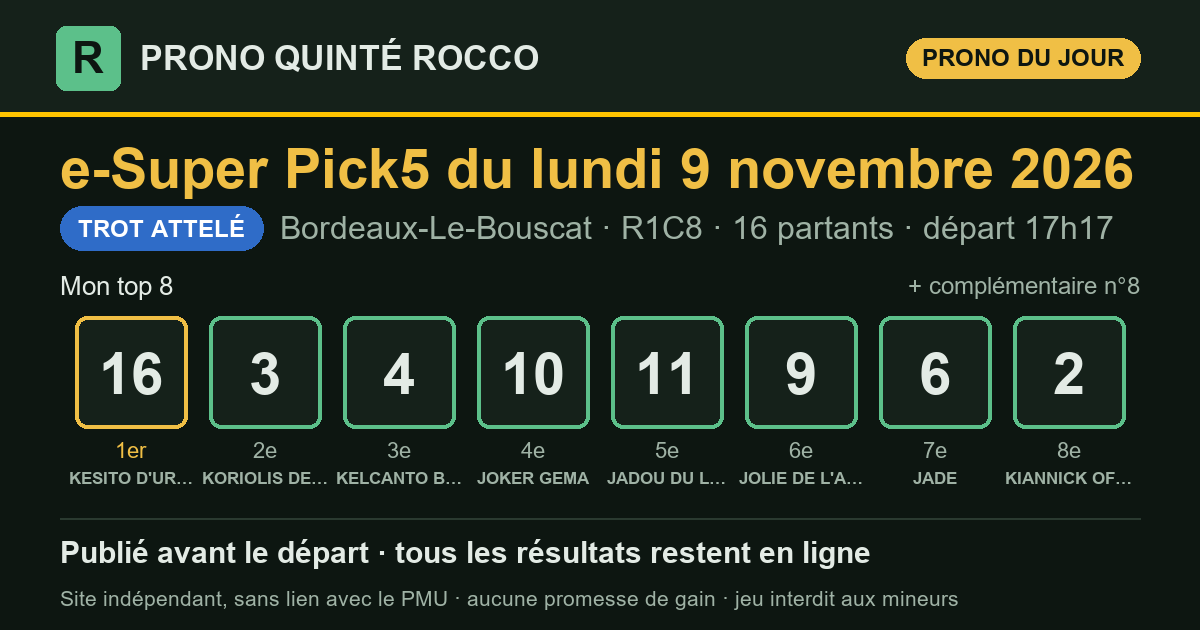
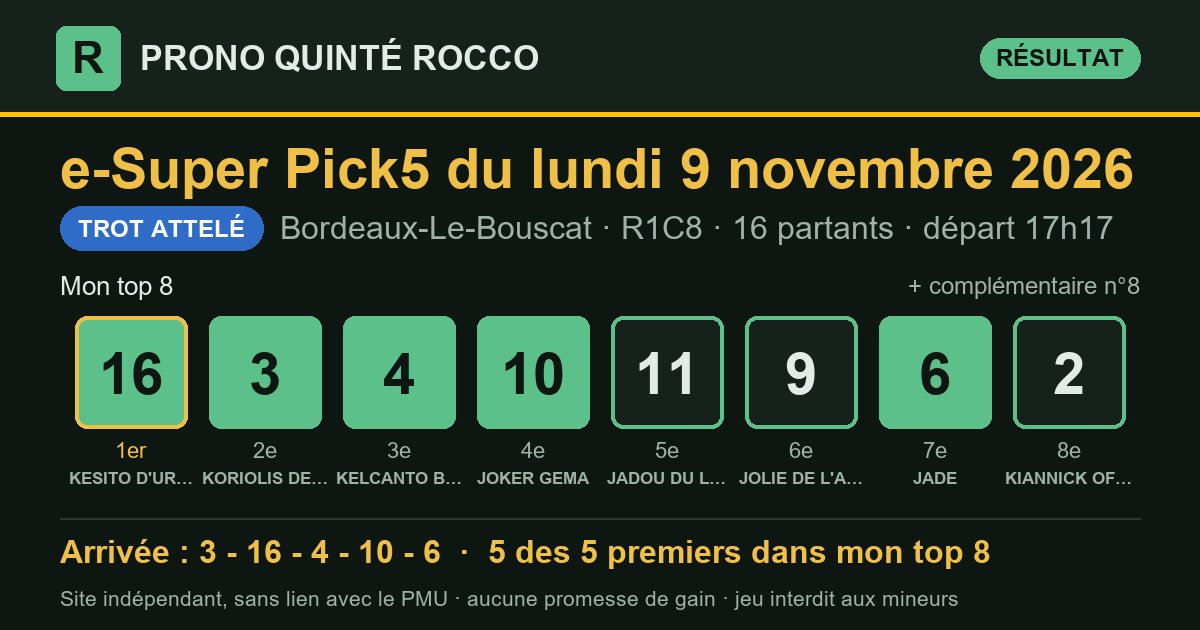
Résultat du e-Super Pick5 2026-11-09 Bordeaux-Le-Bouscat R1C8 — publié le 09/11/2026 17:35 (heure de Paris)

diff --git a/superpick5-partants.html b/superpick5-partants.html
@@ -3,7 +3,7 @@
 <head>
 <meta charset="utf-8">
 <meta name="viewport" content="width=device-width, initial-scale=1, viewport-fit=cover">
-<title>Partants du e-Super Pick5 du lundi 9 novembre 2026 — Prono Quinté Rocco</title>
+<title>Partants du e-Super Pick5 du mardi 10 novembre 2026 — Prono Quinté Rocco</title>
 <meta name="description" content="Les partants du prochain e-Super Pick5 (programme officiel du PMU), avec le rang de chaque cheval dans mon prono et les liens vers les pronostics de la presse.">
 <link rel="canonical" href="https://prono-quinte-rocco.fr/superpick5-partants.html">
 <link rel="stylesheet" href="style.css?v=de02f2a2">
@@ -13,7 +13,7 @@
 <meta property="og:site_name" content="Prono Quinté Rocco">
 <meta property="og:locale" content="fr_FR">
 <meta property="og:type" content="website">
-<meta property="og:title" content="Partants du e-Super Pick5 du lundi 9 novembre 2026 — Prono Quinté Rocco">
+<meta property="og:title" content="Partants du e-Super Pick5 du mardi 10 novembre 2026 — Prono Quinté Rocco">
 <meta property="og:description" content="Les partants du prochain e-Super Pick5 (programme officiel du PMU), avec le rang de chaque cheval dans mon prono et les liens vers les pronostics de la presse.">
 <meta property="og:url" content="https://prono-quinte-rocco.fr/superpick5-partants.html">
 <meta name="twitter:card" content="summary">
@@ -30,100 +30,100 @@
   <p class="surtitre">Programme officiel du PMU</p>
   <h1>Les partants du prochain <span class="nobr">e-Super Pick5</span></h1>
   <div class="fiche-course">
-    <p class="fiche-date">Lundi 9 novembre 2026</p>
-    <div class="fiche-rc"><span class="pastille" title="Réunion 1">R1</span><span class="pastille" title="Course 8">C8</span><span class="fiche-nom">Prix Jonny Ruffato</span></div>
-    <p class="meta"><span class="type t-attele">Trot attelé</span>Le Bouscat · 2 650 m · 16 partants</p>
-    <p class="fiche-depart">Départ <b>17:17</b> <span>heure de Paris</span></p>
+    <p class="fiche-date">Mardi 10 novembre 2026</p>
+    <div class="fiche-rc"><span class="pastille" title="Réunion 3">R3</span><span class="pastille" title="Course 2">C2</span><span class="fiche-nom">Prix de l&#x27;Armistice</span></div>
+    <p class="meta"><span class="type t-attele">Trot attelé</span>Reims · 2 550 m · 16 partants</p>
+    <p class="fiche-depart">Départ <b>17:43</b> <span>heure de Paris</span></p>
   </div>
   <p class="surtitre">Les pronostics ailleurs sur le web</p>
-  <div class="liens"><a class="lien-ext" href="https://www.turfoo.fr/programmes-courses/261109/reunion1-bordeaux-le-bouscat/course8-prix-jonny-ruffato/pronostics-presse/" rel="noopener" target="_blank"><b>Les pronostics de la presse →</b><span>sur Turfoo (site extérieur)</span></a><a class="lien-ext" href="https://www.geny.com/programme/2026-11-09" rel="noopener" target="_blank"><b>Partants et pronostics →</b><span>programme du jour sur Geny (site extérieur)</span></a></div>
+  <div class="liens"><a class="lien-ext" href="https://www.turfoo.fr/programmes-courses/261110/reunion3-reims/course2-prix-de-l-armistice/pronostics-presse/" rel="noopener" target="_blank"><b>Les pronostics de la presse →</b><span>sur Turfoo (site extérieur)</span></a><a class="lien-ext" href="https://www.geny.com/programme/2026-11-10" rel="noopener" target="_blank"><b>Partants et pronostics →</b><span>programme du jour sur Geny (site extérieur)</span></a></div>
   <div class="liste-boite"><table class="liste-partants">
     <thead><tr><th>N°</th><th>Cheval</th><th class="cote"><span class="long">Cote du matin</span><span class="court">Cote</span></th>
     <th class="ia"><span class="long">Mon prono</span><span class="court">Prono</span></th></tr></thead>
     <tbody><tr>
   <td><span class="tapis petit">1</span></td>
-  <td><span class="cheval">KROME</span><span class="sous">J. DUBREIL · J. DUBREIL</span></td>
-  <td class="cote num">185,0</td>
+  <td><span class="cheval">EXPRESS LOVE (SWE)</span><span class="sous">M. GOETZ · A. LOVDAL</span></td>
+  <td class="cote num">—</td>
   <td class="ia">—</td>
 </tr><tr>
   <td><span class="tapis petit">2</span></td>
-  <td><span class="cheval">KIANNICK OF NOUIC</span><span class="sous">M. GRASSET · Y. VIDAL</span></td>
-  <td class="cote num">30,0</td>
-  <td class="ia"><span class="etat place">8<sup>e</sup></span></td>
+  <td><span class="cheval">JOKER DE LA BRETTE</span><span class="sous">P. OLLITRAULT · N. BINET</span></td>
+  <td class="cote num">—</td>
+  <td class="ia">—</td>
 </tr><tr>
   <td><span class="tapis petit">3</span></td>
-  <td><span class="cheval">KORIOLIS DE ZIETTE</span><span class="sous">M. ABRIVARD · D. STOEHR</span></td>
-  <td class="cote num">4,3</td>
-  <td class="ia"><span class="etat place">2<sup>e</sup></span></td>
+  <td><span class="cheval">JALENZA DU BOCAGE</span><span class="sous">A. GENDROT · M. SASSIER</span></td>
+  <td class="cote num">—</td>
+  <td class="ia">—</td>
 </tr><tr>
   <td><span class="tapis petit">4</span></td>
-  <td><span class="cheval">KELCANTO BELLO</span><span class="sous">A. WIELS · J.P. MARMION</span></td>
-  <td class="cote num">6,0</td>
-  <td class="ia"><span class="etat place">3<sup>e</sup></span></td>
+  <td><span class="cheval">DEVIL OP</span><span class="sous">F. OUVRIE · Vitale CIOTOLA</span></td>
+  <td class="cote num">—</td>
+  <td class="ia">—</td>
 </tr><tr>
   <td><span class="tapis petit">5</span></td>
-  <td><span class="cheval">IDEAL WINNER</span><span class="sous">V. CABOS · G. RIVIERE</span></td>
-  <td class="cote num">71,0</td>
+  <td><span class="cheval">JAZZ SESSION</span><span class="sous">A.G. MAILLARD · A.G. MAILLARD</span></td>
+  <td class="cote num">—</td>
   <td class="ia">—</td>
 </tr><tr>
   <td><span class="tapis petit">6</span></td>
-  <td><span class="cheval">JADE</span><span class="sous">A. COLLETTE · V. LEBARQUE</span></td>
-  <td class="cote num">10,0</td>
-  <td class="ia"><span class="etat place">7<sup>e</sup></span></td>
+  <td><span class="cheval">JALACTIC</span><span class="sous">TH. BELLET · B. MARIE</span></td>
+  <td class="cote num">—</td>
+  <td class="ia">—</td>
 </tr><tr>
   <td><span class="tapis petit">7</span></td>
-  <td><span class="cheval">KATSUMOTO</span><span class="sous">PIERRICK LE MOEL · Pierrick LE MOEL</span></td>
-  <td class="cote num">96,0</td>
+  <td><span class="cheval">ORLANDO YOUNG</span><span class="sous">M.T. GUNDERSEN · G.V. GUNDERSEN</span></td>
+  <td class="cote num">—</td>
   <td class="ia">—</td>
 </tr><tr>
   <td><span class="tapis petit">8</span></td>
-  <td><span class="cheval">KARBONE CASH</span><span class="sous">A. ABRIVARD · G. LIGERON</span></td>
-  <td class="cote num">17,0</td>
-  <td class="ia"><span class="etat place">compl.</span></td>
+  <td><span class="cheval">JAPPELOU</span><span class="sous">CH. HESLOUIN · CH. HESLOUIN</span></td>
+  <td class="cote num">—</td>
+  <td class="ia">—</td>
 </tr><tr>
   <td><span class="tapis petit">9</span></td>
-  <td><span class="cheval">JOLIE DE L&#x27;AUMANCE</span><span class="sous">P. GERAY · M. HANQUIER</span></td>
-  <td class="cote num">31,0</td>
-  <td class="ia"><span class="etat place">6<sup>e</sup></span></td>
+  <td><span class="cheval">JASMINE DE GREZ</span><span class="sous">ARNAUD DESMOTTES · ARNAUD DESMOTTES</span></td>
+  <td class="cote num">—</td>
+  <td class="ia">—</td>
 </tr><tr>
   <td><span class="tapis petit">10</span></td>
-  <td><span class="cheval">JOKER GEMA</span><span class="sous">B. ROCHARD · M. SASSIER</span></td>
-  <td class="cote num">6,4</td>
-  <td class="ia"><span class="etat place">4<sup>e</sup></span></td>
+  <td><span class="cheval">JIOSCO DES CHASSES</span><span class="sous">T. THURMES · K. VANDEMOORTELE</span></td>
+  <td class="cote num">—</td>
+  <td class="ia">—</td>
 </tr><tr>
   <td><span class="tapis petit">11</span></td>
-  <td><span class="cheval">JADOU DU LUPIN</span><span class="sous">T. OUVRIE · J.P. MARMION</span></td>
-  <td class="cote num">30,0</td>
-  <td class="ia"><span class="etat place">5<sup>e</sup></span></td>
+  <td><span class="cheval">HIPPARIS</span><span class="sous">J.F. SENET · J.F. SENET</span></td>
+  <td class="cote num">—</td>
+  <td class="ia">—</td>
 </tr><tr>
   <td><span class="tapis petit">12</span></td>
-  <td><span class="cheval">JINGLE DELO</span><span class="sous">J.Y. RICART · J.PH. RAFFEGEAU</span></td>
-  <td class="cote num">51,0</td>
+  <td><span class="cheval">JOURNEY OF DREAM</span><span class="sous">M. IONESCU · R. DERIEUX</span></td>
+  <td class="cote num">—</td>
   <td class="ia">—</td>
 </tr><tr>
   <td><span class="tapis petit">13</span></td>
-  <td><span class="cheval">ICARE DE PHYT&#x27;S</span><span class="sous">S. LALOUM · S. LALOUM</span></td>
-  <td class="cote num">51,0</td>
+  <td><span class="cheval">JOSS AIMEF</span><span class="sous">P.Y. VERVA · P.Y. VERVA</span></td>
+  <td class="cote num">—</td>
   <td class="ia">—</td>
 </tr><tr>
   <td><span class="tapis petit">14</span></td>
-  <td><span class="cheval">HOLDING GIRL</span><span class="sous">M.X. CHARLOT · M.X. CHARLOT</span></td>
-  <td class="cote num">40,0</td>
+  <td><span class="cheval">JALDO D&#x27;OCQUE</span><span class="sous">PH. MASSCHAELE · Mlle A.M. SOUDAIN</span></td>
+  <td class="cote num">—</td>
   <td class="ia">—</td>
 </tr><tr>
   <td><span class="tapis petit">15</span></td>
-  <td><span class="cheval">GRAHIKA</span><span class="sous">TH. DUCOS · F. TERRY</span></td>
-  <td class="cote num">185,0</td>
+  <td><span class="cheval">IDEAL BOY</span><span class="sous">A. BOURGOIN-TIMBERT · Y. DREUX</span></td>
+  <td class="cote num">—</td>
   <td class="ia">—</td>
 </tr><tr>
   <td><span class="tapis petit">16</span></td>
-  <td><span class="cheval">KESITO D&#x27;URVILLE</span><span class="sous">M. CRIADO · G. DELACOUR</span></td>
-  <td class="cote num">3,7</td>
-  <td class="ia"><span class="etat place">1<sup>er</sup></span></td>
+  <td><span class="cheval">JAZZ DE PADD</span><span class="sous">M. ABRIVARD · M. ABRIVARD</span></td>
+  <td class="cote num">—</td>
+  <td class="ia">—</td>
 </tr></tbody>
   </table></div>
-  <p class="meta">La colonne « Mon prono » donne le rang de chaque cheval dans mon top 8, tel qu&#x27;il est publié sur ce site. Sous chaque cheval : driver · entraîneur. Partants et cotes : programme
-  officiel du PMU, lu le 09/11 à 14:20 (heure de Paris). NP = non-partant.</p>
+  <p class="meta">Mon prono de cette course sera publié le matin de la course, avant le départ. Sous chaque cheval : driver · entraîneur. Partants et cotes : programme
+  officiel du PMU, lu le 09/11 à 17:35 (heure de Paris). NP = non-partant.</p>
 </section>
 </main>
 <footer class="pied">

diff --git a/superpick5.html b/superpick5.html
@@ -16,7 +16,7 @@
 <meta property="og:title" content="Pronostic e-Super Pick5 du lundi 9 novembre 2026 — Prono Quinté Rocco">
 <meta property="og:description" content="Pronostic e-Super Pick5 du jour : mon top 8, publié avant le départ, puis tous les résultats et le rendement réel.">
 <meta property="og:url" content="https://prono-quinte-rocco.fr/superpick5.html">
-<meta property="og:image" content="https://prono-quinte-rocco.fr/partage/sp5-2026-11-09.png?v=8f70ef1f">
+<meta property="og:image" content="https://prono-quinte-rocco.fr/partage/sp5-2026-11-09.png?v=727161fe">
 <meta property="og:image:type" content="image/png">
 <meta property="og:image:width" content="1200">
 <meta property="og:image:height" content="630">
@@ -32,7 +32,7 @@
 <div class="jeux j-sp5" role="navigation" aria-label="Choix du jeu"><a class="jeu jeu-quinte" href="index.html">Quinté+</a><a class="jeu jeu-sp5 actif" href="superpick5.html" aria-current="true">e-Super Pick5<small>entre 17 h et 19 h</small></a></div>
 <main>
 <section class="une" aria-labelledby="t-jour">
-  <p class="surtitre">e-Super Pick5 du jour</p>
+  <p class="surtitre">Dernier e-Super Pick5</p>
   <h1 id="t-jour">Le prono du <span class="nobr">e-Super Pick5</span>, résultats compris</h1>
   <p class="chapo">Le e-Super Pick5 est le nouveau pari du PMU : chaque jour, une course
   dont il faut trouver les cinq premiers. Je l'étudie comme le Quinté+, avec le logiciel
@@ -44,10 +44,13 @@
   <p class="meta">Bordeaux-Le-Bouscat · <strong>R1C8</strong> · 16 partants · <span class="lisib">lisibilité <span class="note" aria-label="note 3 sur 5" title="lisibilité 3/5 : course assez ouverte"><i class="on"></i><i class="on"></i><i class="on"></i><i class=""></i><i class=""></i></span> 3/5</span></p>
   <div class="zone-prono">
     <h3 class="zone-titre">Mon top 8</h3>
-    <ol class="partants" aria-label="Mon top 8"><li><span class="rang">1<sup>er</sup></span><span class="tapis ">16</span><span class="nom">KESITO D&#x27;URVILLE</span></li><li><span class="rang">2<sup>e</sup></span><span class="tapis ">3</span><span class="nom">KORIOLIS DE ZIETTE</span></li><li><span class="rang">3<sup>e</sup></span><span class="tapis ">4</span><span class="nom">KELCANTO BELLO</span></li><li><span class="rang">4<sup>e</sup></span><span class="tapis ">10</span><span class="nom">JOKER GEMA</span></li><li><span class="rang">5<sup>e</sup></span><span class="tapis ">11</span><span class="nom">JADOU DU LUPIN</span></li><li><span class="rang">6<sup>e</sup></span><span class="tapis ">9</span><span class="nom">JOLIE DE L&#x27;AUMANCE</span></li><li><span class="rang">7<sup>e</sup></span><span class="tapis ">6</span><span class="nom">JADE</span></li><li><span class="rang">8<sup>e</sup></span><span class="tapis ">2</span><span class="nom">KIANNICK OF NOUIC</span></li><li><span class="rang">compl.</span><span class="tapis creux">8</span><span class="nom">KARBONE CASH</span></li></ol>
+    <ol class="partants" aria-label="Mon top 8"><li><span class="rang">1<sup>er</sup></span><span class="tapis plein">16</span><span class="nom">KESITO D&#x27;URVILLE</span></li><li><span class="rang">2<sup>e</sup></span><span class="tapis plein">3</span><span class="nom">KORIOLIS DE ZIETTE</span></li><li><span class="rang">3<sup>e</sup></span><span class="tapis plein">4</span><span class="nom">KELCANTO BELLO</span></li><li><span class="rang">4<sup>e</sup></span><span class="tapis plein">10</span><span class="nom">JOKER GEMA</span></li><li><span class="rang">5<sup>e</sup></span><span class="tapis ">11</span><span class="nom">JADOU DU LUPIN</span></li><li><span class="rang">6<sup>e</sup></span><span class="tapis ">9</span><span class="nom">JOLIE DE L&#x27;AUMANCE</span></li><li><span class="rang">7<sup>e</sup></span><span class="tapis plein">6</span><span class="nom">JADE</span></li><li><span class="rang">8<sup>e</sup></span><span class="tapis ">2</span><span class="nom">KIANNICK OF NOUIC</span></li><li><span class="rang">compl.</span><span class="tapis creux">8</span><span class="nom">KARBONE CASH</span></li></ol>
     <div class="pied-carte"><span>Analysé le 09/11 à 12:27 · en ligne le 09/11 à 12:32 · départ à 17:17 (heure de Paris)</span><span><a href="superpick5/2026-11-09.html">Détail de la course</a></span></div>
   </div>
-  <div class="zone-arrivee attente"><p>L'arrivée officielle s'affichera ici après la course.</p></div>
+  <div class="zone-arrivee">
+    <div class="zone-tete"><h3 class="zone-titre">Arrivée officielle</h3><span class="etat top">5 des 5 premiers dans mon top 8</span><span class="etat place">mon 1er (n°16) : placé</span></div>
+    <ol class="partants" aria-label="Arrivée officielle"><li><span class="rang">1<sup>er</sup></span><span class="tapis plein">3</span><span class="nom">KORIOLIS DE ZIETTE</span></li><li><span class="rang">2<sup>e</sup></span><span class="tapis plein">16</span><span class="nom">KESITO D&#x27;URVILLE</span></li><li><span class="rang">3<sup>e</sup></span><span class="tapis plein">4</span><span class="nom">KELCANTO BELLO</span></li><li><span class="rang">4<sup>e</sup></span><span class="tapis plein">10</span><span class="nom">JOKER GEMA</span></li><li><span class="rang">5<sup>e</sup></span><span class="tapis plein">6</span><span class="nom">JADE</span></li></ol>
+  </div>
 </article>
 </section>
 <section class="suivre" aria-label="Suivre et soutenir">
@@ -77,9 +80,9 @@
 </section>
 <section class="bilan" aria-labelledby="t-bilan">
   <h2 id="t-bilan">Mon bilan depuis le 5 novembre 2026</h2>
-  <div class="tableau chiffres"><div class="case"><span class="gros ">90 %</span><span class="lib">des arrivants trouvés dans mon top 8</span><span class="ref">un top 8 tiré au hasard : 62 %</span></div><div class="case"><span class="gros ">100 %</span><span class="lib">des gagnants présents dans mon top 8</span><span class="ref"></span></div><div class="case"><span class="gros ">50 %</span><span class="lib">mon 1er placé</span><span class="ref">sur 2 Super Pick5</span></div><div class="case"><span class="gros perte">0,60 €</span><span class="lib">rendus pour 1 € joué placé sur mon 1er</span><span class="ref">rapports officiels PMU</span></div><div class="case"><span class="gros gain">3,15 €</span><span class="lib">rendus pour 1 € joué en e-Super Pick5 combiné sur mon top 8</span><span class="ref">56 combinaisons, rapports PMU.fr, sur 2 Super Pick5</span></div></div>
+  <div class="tableau chiffres"><div class="case"><span class="gros ">93 %</span><span class="lib">des arrivants trouvés dans mon top 8</span><span class="ref">un top 8 tiré au hasard : 58 %</span></div><div class="case"><span class="gros ">100 %</span><span class="lib">des gagnants présents dans mon top 8</span><span class="ref"></span></div><div class="case"><span class="gros ">50 %</span><span class="lib">mon 1er placé</span><span class="ref">sur 2 Super Pick5</span></div><div class="case"><span class="gros perte">0,60 €</span><span class="lib">rendus pour 1 € joué placé sur mon 1er</span><span class="ref">rapports officiels PMU</span></div><div class="case"><span class="gros gain">2,14 €</span><span class="lib">rendus pour 1 € joué en e-Super Pick5 combiné sur mon top 8</span><span class="ref">56 combinaisons, rapports PMU.fr, sur 3 Super Pick5</span></div></div>
   <p class="avertissement">Moins de 1 € rendu pour 1 € joué : suivre mon prono à la lettre fait <strong>perdre de l'argent</strong> sur cette période. Il sert à analyser une course, pas à promettre un gain.</p>
-  <p class="avertissement">Sur 2 courses seulement : beaucoup trop peu pour en tirer quoi que ce soit.</p>
+  <p class="avertissement">Sur 3 courses seulement : beaucoup trop peu pour en tirer quoi que ce soit.</p>
 </section>
 <section class="texte en-bref" aria-labelledby="t-bref">
   <h2 id="t-bref">Le e-Super Pick5 en bref</h2>

diff --git a/superpick5-resultats.html b/superpick5-resultats.html
@@ -51,12 +51,12 @@
     <th colspan="4" class="res g-res">Le résultat officiel</th></tr>
     <tr><th>Date</th><th>Course</th><th>Top 8</th><th class="c-lis">Lisibilité</th><th class="res c-arr">Arrivée</th>
     <th class="res">Trouvés</th><th class="res">Mon 1er</th><th class="res mont">Super Pick5 top 8<br><small>(mise 112 €)</small></th></tr></thead>
-    <tbody><tr class="attente">
+    <tbody><tr>
   <td class="c-date"><a href="superpick5/2026-11-09.html">09/11</a></td>
   <td class="c-course">Bordeaux-Le-Bouscat<br><span class="meta">R1C8</span><span class="type t-attele petit">Attelé</span></td>
-  <td class="c-top8" data-label="Mon top 8"><div class="rangee"><span class="tapis petit">16</span><span class="tapis petit">3</span><span class="tapis petit">4</span><span class="tapis petit">10</span><span class="tapis petit">11</span><span class="tapis petit">9</span><span class="tapis petit">6</span><span class="tapis petit">2</span></div></td>
+  <td class="c-top8" data-label="Mon top 8"><div class="rangee"><span class="tapis plein petit">16</span><span class="tapis plein petit">3</span><span class="tapis plein petit">4</span><span class="tapis plein petit">10</span><span class="tapis petit">11</span><span class="tapis petit">9</span><span class="tapis plein petit">6</span><span class="tapis petit">2</span></div></td>
   <td class="c-lis" data-label="Lisibilité"><span class="note" aria-label="note 3 sur 5" title="lisibilité 3/5 : course assez ouverte"><i class="on"></i><i class="on"></i><i class="on"></i><i class=""></i><i class=""></i></span> 3/5</td>
-  <td class="res c-arr" data-label="Arrivée"><span class="etat attente">en attente</span></td><td class="res num c-trouves" data-label="Trouvés">—</td><td class="res c-premier" data-label="Mon 1er"><span class="etat attente">—</span></td><td class="res mont c-mont" data-label="Super Pick5 top 8 (mise 112 €)">—</td>
+  <td class="res c-arr" data-label="Arrivée"><div class="rangee"><span class="tapis plein petit" title="1er">3</span><span class="tapis plein petit" title="2e">16</span><span class="tapis plein petit" title="3e">4</span><span class="tapis plein petit" title="4e">10</span><span class="tapis plein petit" title="5e">6</span></div></td><td class="res num c-trouves" data-label="Trouvés"><span class="etat top" title="les 5 premiers sont dans mon top 8">5/5</span></td><td class="res c-premier" data-label="Mon 1er"><span class="etat place">placé</span></td><td class="res mont c-mont partiel" data-label="Super Pick5 top 8 (mise 112 €)" title="perte nette : 98,20 €"><span class="etat partiel somme">13,80 €</span></td>
 </tr><tr>
   <td class="c-date"><a href="superpick5/2026-11-06.html">06/11</a> <span class="meta tard">après coup</span></td>
   <td class="c-course">Deauville<br><span class="meta">R4C6</span><span class="type t-plat petit">Plat</span></td>
@@ -74,9 +74,9 @@
 </section>
 <section class="bilan" aria-labelledby="t-bilan">
   <h2 id="t-bilan">Mon bilan depuis le 5 novembre 2026</h2>
-  <div class="tableau chiffres"><div class="case"><span class="gros ">90 %</span><span class="lib">des arrivants trouvés dans mon top 8</span><span class="ref">un top 8 tiré au hasard : 62 %</span></div><div class="case"><span class="gros ">100 %</span><span class="lib">des gagnants présents dans mon top 8</span><span class="ref"></span></div><div class="case"><span class="gros ">50 %</span><span class="lib">mon 1er placé</span><span class="ref">sur 2 Super Pick5</span></div><div class="case"><span class="gros perte">0,60 €</span><span class="lib">rendus pour 1 € joué placé sur mon 1er</span><span class="ref">rapports officiels PMU</span></div><div class="case"><span class="gros gain">3,15 €</span><span class="lib">rendus pour 1 € joué en e-Super Pick5 combiné sur mon top 8</span><span class="ref">56 combinaisons, rapports PMU.fr, sur 2 Super Pick5</span></div></div>
+  <div class="tableau chiffres"><div class="case"><span class="gros ">93 %</span><span class="lib">des arrivants trouvés dans mon top 8</span><span class="ref">un top 8 tiré au hasard : 58 %</span></div><div class="case"><span class="gros ">100 %</span><span class="lib">des gagnants présents dans mon top 8</span><span class="ref"></span></div><div class="case"><span class="gros ">50 %</span><span class="lib">mon 1er placé</span><span class="ref">sur 2 Super Pick5</span></div><div class="case"><span class="gros perte">0,60 €</span><span class="lib">rendus pour 1 € joué placé sur mon 1er</span><span class="ref">rapports officiels PMU</span></div><div class="case"><span class="gros gain">2,14 €</span><span class="lib">rendus pour 1 € joué en e-Super Pick5 combiné sur mon top 8</span><span class="ref">56 combinaisons, rapports PMU.fr, sur 3 Super Pick5</span></div></div>
   <p class="avertissement">Moins de 1 € rendu pour 1 € joué : suivre mon prono à la lettre fait <strong>perdre de l'argent</strong> sur cette période. Il sert à analyser une course, pas à promettre un gain.</p>
-  <p class="avertissement">Sur 2 courses seulement : beaucoup trop peu pour en tirer quoi que ce soit.</p>
+  <p class="avertissement">Sur 3 courses seulement : beaucoup trop peu pour en tirer quoi que ce soit.</p>
 </section><section class="texte" id="officiels" style="max-width:none">
   <h2>Les résultats officiels, tous les jours</h2>
   <p>Chaque e-Super Pick5 depuis le 5 novembre 2026, que j'aie proposé un prono ou non : l'arrivée
@@ -88,6 +88,11 @@
     <tr><th>Date</th><th>Course</th><th class="res c-arr">Arrivée</th><th class="res mont">Ordre</th>
     <th class="res mont">Super Désordre</th><th class="res mont">Désordre</th><th>Mon prono</th></tr></thead>
     <tbody><tr>
+  <td class="c-date"><a href="superpick5/2026-11-09.html">09/11</a></td>
+  <td class="c-course">Bordeaux-Le-Bouscat<br><span class="meta">R1C8</span><span class="type t-attele petit">Attelé</span></td>
+  <td class="res c-arr" data-label="Arrivée"><div class="rangee"><span class="tapis petit" title="1er">3</span><span class="tapis petit" title="2e">16</span><span class="tapis petit" title="3e">4</span><span class="tapis petit" title="4e">10</span><span class="tapis petit" title="5e">6</span></div></td><td class="res mont c-o" data-label="Ordre">334,20 €</td><td class="res mont c-sd" data-label="Super Désordre">13,80 €</td><td class="res mont c-d" data-label="Désordre">13,40 €</td>
+  <td class="c-prono" data-label="Mon prono"><span><a href="superpick5/2026-11-09.html">mon top 8</a> <span class="etat top" title="les 5 premiers sont dans mon top 8">5/5</span></span></td>
+</tr><tr>
   <td class="c-date">08/11</td>
   <td class="c-course">Saint-Cloud<br><span class="meta">R1C8</span><span class="type t-plat petit">Plat</span></td>
   <td class="res c-arr" data-label="Arrivée"><div class="rangee"><span class="tapis petit" title="1er">7</span><span class="tapis petit" title="2e">4</span><span class="tapis petit" title="3e">3</span><span class="tapis petit" title="4e">14</span><span class="tapis petit" title="5e">2</span></div></td><td class="res mont c-o" data-label="Ordre">31 441,20 €</td><td class="res mont c-sd" data-label="Super Désordre">226,20 €</td><td class="res mont c-d" data-label="Désordre">81,60 €</td>

diff --git a/superpick5/2026-11-09.html b/superpick5/2026-11-09.html
@@ -16,7 +16,7 @@
 <meta property="og:title" content="Pronostic e-Super Pick5 du lundi 9 novembre 2026 à Bordeaux-Le-Bouscat — Prono Quinté Rocco">
 <meta property="og:description" content="Prono e-Super Pick5 du lundi 9 novembre 2026 (Bordeaux-Le-Bouscat) : mon top 8, l&#x27;arrivée officielle et les rapports PMU.fr.">
 <meta property="og:url" content="https://prono-quinte-rocco.fr/superpick5/2026-11-09.html">
-<meta property="og:image" content="https://prono-quinte-rocco.fr/partage/sp5-2026-11-09.png?v=8f70ef1f">
+<meta property="og:image" content="https://prono-quinte-rocco.fr/partage/sp5-2026-11-09.png?v=727161fe">
 <meta property="og:image:type" content="image/png">
 <meta property="og:image:width" content="1200">
 <meta property="og:image:height" content="630">
@@ -36,15 +36,25 @@
   <h1>Pronostic <span class="nobr">e-Super Pick5</span> du lundi 9 novembre 2026</h1>
   <p class="chapo">Bordeaux-Le-Bouscat · R1C8 · Attelé · 16 partants</p>
   <article class="carte-course">
-  <div class="tete"><h2>Mon prono</h2><span class="type t-attele">Trot attelé</span></div>
+  <div class="tete"><h2>Mon prono et l&#x27;arrivée officielle</h2><span class="type t-attele">Trot attelé</span></div>
   <p class="meta">Bordeaux-Le-Bouscat · <strong>R1C8</strong> · 16 partants · <span class="lisib">lisibilité <span class="note" aria-label="note 3 sur 5" title="lisibilité 3/5 : course assez ouverte"><i class="on"></i><i class="on"></i><i class="on"></i><i class=""></i><i class=""></i></span> 3/5</span></p>
   <div class="zone-prono">
     <h3 class="zone-titre">Mon top 8</h3>
-    <ol class="partants" aria-label="Mon top 8"><li><span class="rang">1<sup>er</sup></span><span class="tapis ">16</span><span class="nom">KESITO D&#x27;URVILLE</span></li><li><span class="rang">2<sup>e</sup></span><span class="tapis ">3</span><span class="nom">KORIOLIS DE ZIETTE</span></li><li><span class="rang">3<sup>e</sup></span><span class="tapis ">4</span><span class="nom">KELCANTO BELLO</span></li><li><span class="rang">4<sup>e</sup></span><span class="tapis ">10</span><span class="nom">JOKER GEMA</span></li><li><span class="rang">5<sup>e</sup></span><span class="tapis ">11</span><span class="nom">JADOU DU LUPIN</span></li><li><span class="rang">6<sup>e</sup></span><span class="tapis ">9</span><span class="nom">JOLIE DE L&#x27;AUMANCE</span></li><li><span class="rang">7<sup>e</sup></span><span class="tapis ">6</span><span class="nom">JADE</span></li><li><span class="rang">8<sup>e</sup></span><span class="tapis ">2</span><span class="nom">KIANNICK OF NOUIC</span></li><li><span class="rang">compl.</span><span class="tapis creux">8</span><span class="nom">KARBONE CASH</span></li></ol>
+    <ol class="partants" aria-label="Mon top 8"><li><span class="rang">1<sup>er</sup></span><span class="tapis plein">16</span><span class="nom">KESITO D&#x27;URVILLE</span></li><li><span class="rang">2<sup>e</sup></span><span class="tapis plein">3</span><span class="nom">KORIOLIS DE ZIETTE</span></li><li><span class="rang">3<sup>e</sup></span><span class="tapis plein">4</span><span class="nom">KELCANTO BELLO</span></li><li><span class="rang">4<sup>e</sup></span><span class="tapis plein">10</span><span class="nom">JOKER GEMA</span></li><li><span class="rang">5<sup>e</sup></span><span class="tapis ">11</span><span class="nom">JADOU DU LUPIN</span></li><li><span class="rang">6<sup>e</sup></span><span class="tapis ">9</span><span class="nom">JOLIE DE L&#x27;AUMANCE</span></li><li><span class="rang">7<sup>e</sup></span><span class="tapis plein">6</span><span class="nom">JADE</span></li><li><span class="rang">8<sup>e</sup></span><span class="tapis ">2</span><span class="nom">KIANNICK OF NOUIC</span></li><li><span class="rang">compl.</span><span class="tapis creux">8</span><span class="nom">KARBONE CASH</span></li></ol>
     <div class="pied-carte"><span>Analysé le 09/11 à 12:27 · en ligne le 09/11 à 12:32 · départ à 17:17 (heure de Paris)</span><span></span></div>
   </div>
-  <div class="zone-arrivee attente"><p>L'arrivée officielle s'affichera ici après la course.</p></div>
+  <div class="zone-arrivee">
+    <div class="zone-tete"><h3 class="zone-titre">Arrivée officielle</h3><span class="etat top">5 des 5 premiers dans mon top 8</span><span class="etat place">mon 1er (n°16) : placé</span></div>
+    <ol class="partants" aria-label="Arrivée officielle"><li><span class="rang">1<sup>er</sup></span><span class="tapis plein">3</span><span class="nom">KORIOLIS DE ZIETTE</span></li><li><span class="rang">2<sup>e</sup></span><span class="tapis plein">16</span><span class="nom">KESITO D&#x27;URVILLE</span></li><li><span class="rang">3<sup>e</sup></span><span class="tapis plein">4</span><span class="nom">KELCANTO BELLO</span></li><li><span class="rang">4<sup>e</sup></span><span class="tapis plein">10</span><span class="nom">JOKER GEMA</span></li><li><span class="rang">5<sup>e</sup></span><span class="tapis plein">6</span><span class="nom">JADE</span></li></ol>
+  </div>
 </article>
+<section class="carte-course rapports" aria-labelledby="t-rap">
+  <div class="tete"><h2 id="t-rap">Les rapports</h2></div>
+  <div class="deux">
+    <div><h3>Ce qu'aurait rendu mon prono</h3><dl class="kv"><dt>1 € placé sur mon 1er (n°16)</dt><dd>rapport manquant</dd><dt>1 € gagnant sur mon 1er</dt><dd>rapport manquant</dd><dt>e-Super Pick5 combiné sur mon top 8 (mise 112 €)</dt><dd class="partiel"><span class="etat partiel somme">13,80 €</span></dd><dt>dont</dt><dd>Super Désordre × 1</dd></dl></div>
+    <div><h3>Rapports officiels</h3><dl class="kv"><dt>e-Super Pick5 Ordre (2 €)</dt><dd>334,20 €</dd><dt>e-Super Pick5 Super Désordre (2 €)</dt><dd>13,80 €</dd><dt>e-Super Pick5 Désordre (2 €)</dt><dd>13,40 €</dd></dl></div>
+  </div>
+</section>
 </section>
 </main>
 <footer class="pied">

diff --git a/partants.html b/partants.html
@@ -123,7 +123,7 @@
 </tr></tbody>
   </table></div>
   <p class="meta">Mon prono de cette course sera publié le matin de la course, avant le départ. Sous chaque cheval : jockey · entraîneur. Partants et cotes : programme
-  officiel du PMU, lu le 09/11 à 14:20 (heure de Paris). NP = non-partant.</p>
+  officiel du PMU, lu le 09/11 à 17:35 (heure de Paris). NP = non-partant.</p>
 </section>
 </main>
 <footer class="pied">
